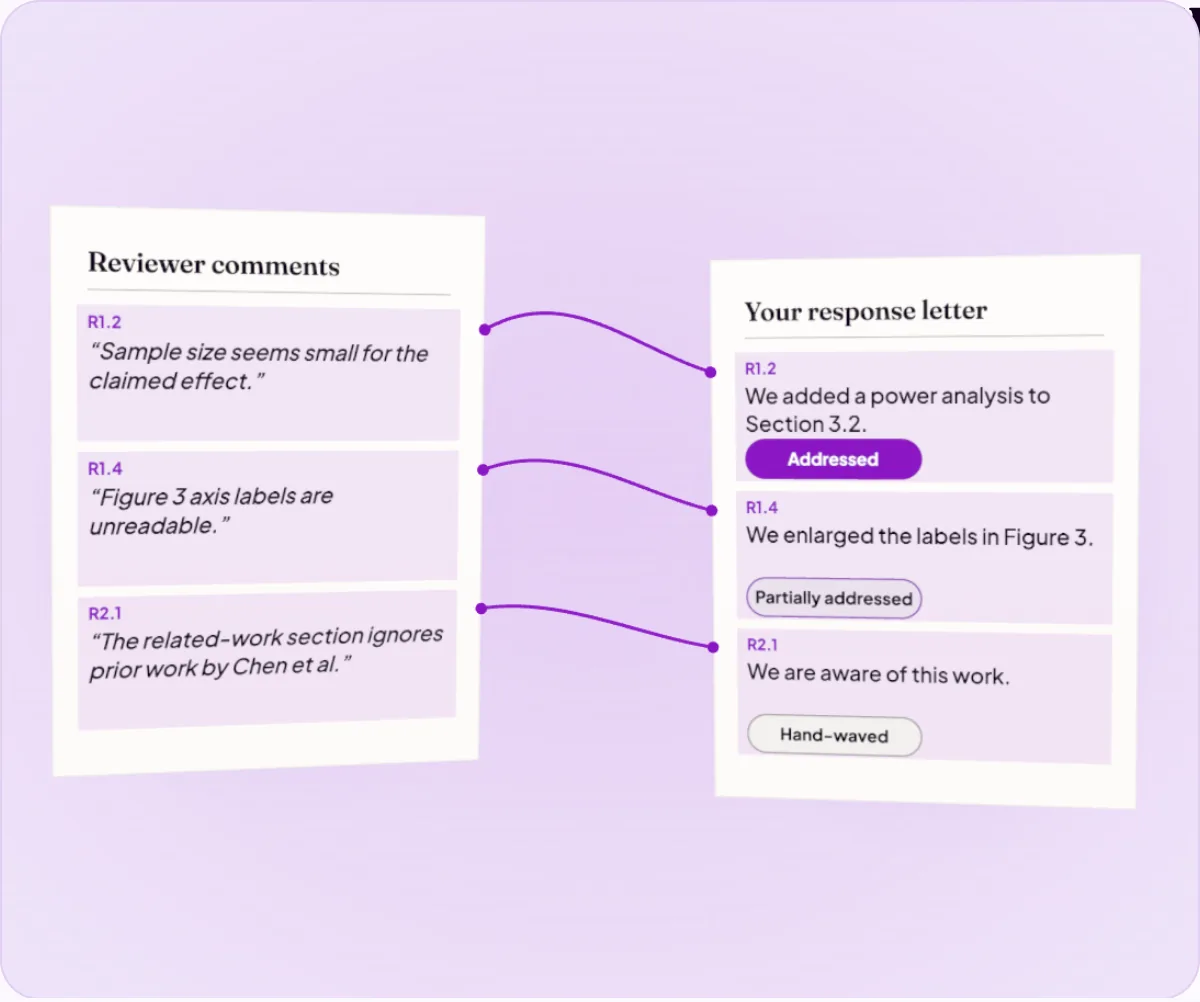
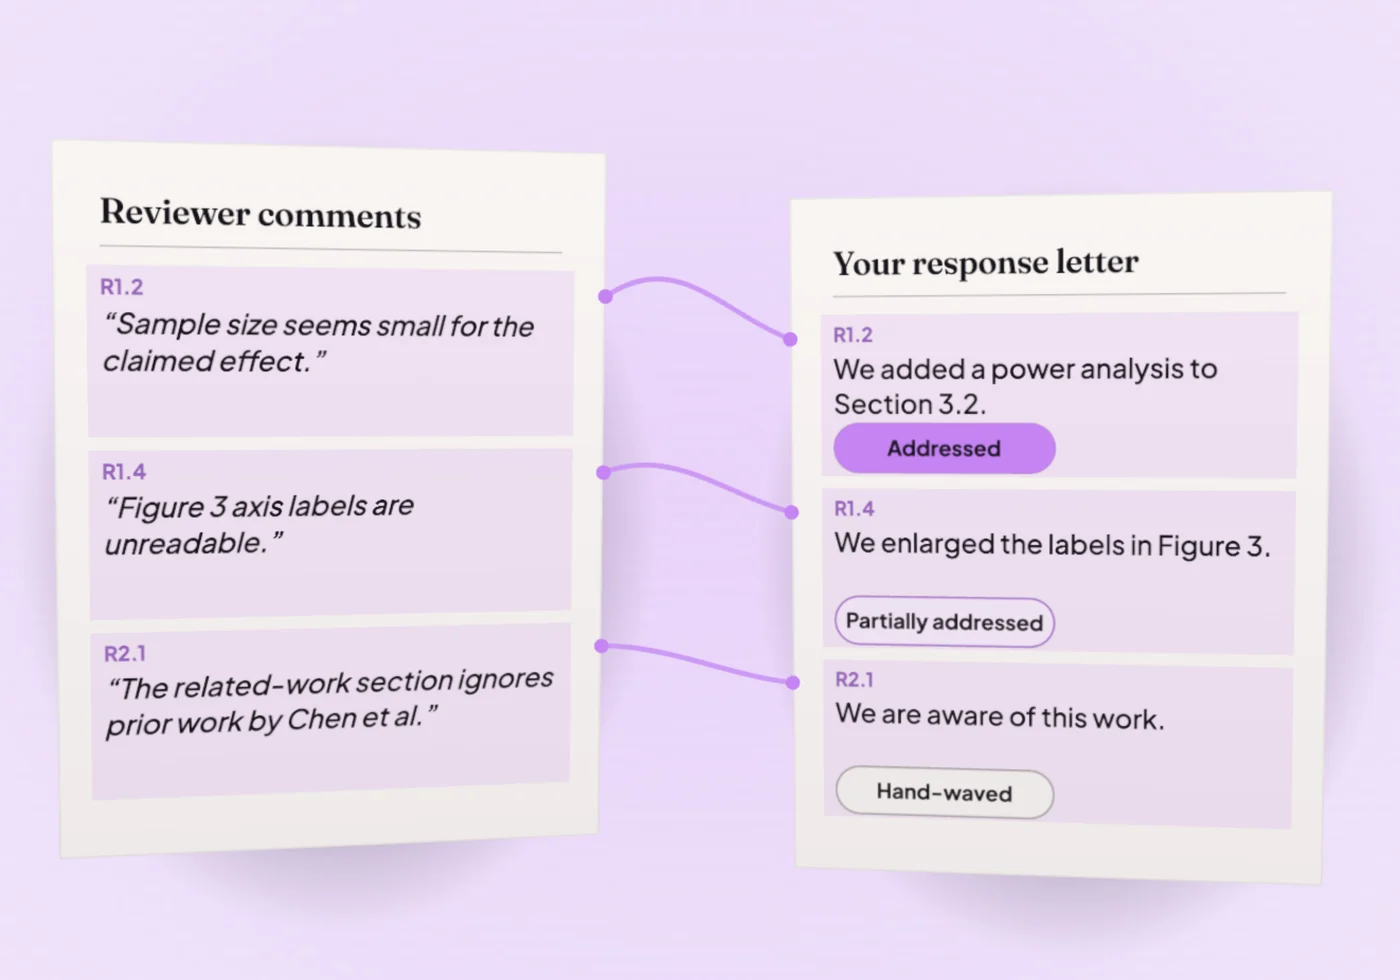
Response Review: larger, brighter tracker render beside the headline, two equal cards, poster on the upload page

diff --git a/site/tools/response-review/response-review.css b/site/tools/response-review/response-review.css
@@ -2,31 +2,38 @@
    Tokens only; dark is the default, light follows the shared tokens. */
 
 /* ---------- landing ---------- */
-.rr-hero { padding-bottom: 0; }
+/* Order in the markup: headline, render, chooser. Phones show the chooser before the render. */
 .rr-stage {
-  display: flex; flex-direction: column; gap: 28px;
-  max-width: 1120px; margin: 28px auto 0; padding: 0 24px;
+  display: flex; flex-direction: column; gap: 24px;
+  max-width: 1240px; margin: 0 auto; padding: 0 24px;
 }
-.rr-chooser { display: flex; flex-direction: column; gap: 16px; min-width: 0; }
-.rr-chooser-title { font-family: var(--font-display); font-size: 1.35rem; margin: 0; text-align: left; }
+.rr-stage > .rr-hero { max-width: 720px; margin: 0 auto; padding: 40px 0 0; }
+.rr-chooser { display: grid; gap: 16px; min-width: 0; }
+.rr-chooser-title { font-family: var(--font-display); font-size: 1.5rem; line-height: 1.2; margin: 0; text-align: left; }
 .rr-card {
-  display: flex; flex-direction: column; gap: 12px;
-  padding: 22px 22px 24px; border: 1px solid var(--line); border-radius: 16px;
+  display: grid; grid-template-columns: minmax(0, 1fr) auto; grid-template-rows: auto 1fr auto;
+  align-items: baseline; gap: 12px 16px;
+  padding: 22px 24px 24px; border: 1px solid var(--line); border-radius: 16px;
   background: var(--panel);
 }
-.rr-card h3 { font-family: var(--font-display); font-size: 1.25rem; line-height: 1.2; margin: 0; }
+.rr-card h3 { font-family: var(--font-display); font-size: 1.3rem; line-height: 1.2; margin: 0; }
 .rr-card-price { margin: 0; font-family: var(--font-display); font-size: 1.9rem; line-height: 1; color: var(--ink); }
-.rr-card-facts { margin: 0; display: grid; gap: 4px; }
-.rr-card-facts dt { font-weight: 700; font-size: 0.95rem; color: var(--ink); margin-top: 6px; text-transform: none; letter-spacing: normal; }
+.rr-card-facts { grid-column: 1 / -1; align-self: start; margin: 0 0 6px; display: grid; grid-template-columns: auto minmax(0, 1fr); gap: 8px 16px; }
+.rr-card-facts dt { font-weight: 700; font-size: 0.95rem; line-height: 1.55; color: var(--ink); margin: 0; text-transform: none; letter-spacing: normal; white-space: nowrap; }
 .rr-card-facts dd { margin: 0; color: var(--muted); font-size: 0.95rem; line-height: 1.55; }
-.rr-card .btn { align-self: flex-start; margin-top: 6px; }
+/* Both buttons are the same size and sit on the card's bottom edge, whatever the copy length above. */
+.rr-card > .btn {
+  grid-column: 1 / -1; align-self: end; width: 100%; margin: 0; text-align: center;
+  font-size: 1.05rem; line-height: 1.3; padding: 0.85rem 1.2rem;
+}
 .rr-secure { text-align: left; }
 
-.rr-figure { margin: 0; min-width: 0; }
+.rr-figure { margin: 0; min-width: 0; order: 1; }
 .rt-hero {
-  position: relative; width: 100%; aspect-ratio: 6 / 5; overflow: hidden;
+  position: relative; width: 100%; aspect-ratio: 1 / 1; overflow: hidden;
   border-radius: 20px; border: 1px solid var(--line);
   background: color-mix(in oklch, var(--purple) 9%, var(--bg));
+  box-shadow: 0 30px 60px -40px color-mix(in oklch, var(--purple) 70%, transparent);
 }
 .rt-hero-poster, .rt-hero-canvas {
   position: absolute; inset: 0; width: 100%; height: 100%; display: block;
@@ -37,19 +44,30 @@
 .rt-hero.is-live .rt-hero-poster { opacity: 0; }
 .rr-caption { margin: 10px 4px 0; font-size: 0.9rem; color: var(--muted); text-align: center; }
 
-.rr-after { max-width: 880px; margin-top: 36px; padding: 0 24px; }
+.rr-after { max-width: 880px; margin-top: 44px; padding: 0 24px; }
 .rr-flow { width: 100%; text-align: left; }
-.rr-flow h2 { font-family: var(--font-display); font-size: 1.35rem; margin: 0 0 12px; text-align: center; }
+.rr-flow h2 { font-family: var(--font-display); font-size: 1.5rem; margin: 0 0 12px; text-align: left; }
 .rr-flow-grid { display: grid; gap: 22px; }
 .rr-flow-grid h3 { font-size: 1.05rem; margin: 0 0 4px; }
 .rr-flow .pr-steps { flex-direction: column; align-items: flex-start; justify-content: flex-start; gap: 8px; margin: 8px 0 0; padding: 0; }
 
 @media (min-width: 640px) {
   .rr-flow-grid { grid-template-columns: 1fr 1fr; gap: 36px; }
+  .rr-chooser { grid-template-columns: 1fr 1fr; gap: 20px; }
+  .rr-chooser-title, .rr-secure { grid-column: 1 / -1; }
+}
+@media (min-width: 760px) {
+  .rt-hero { aspect-ratio: 10 / 7; }
 }
 @media (min-width: 1000px) {
-  .rr-stage { display: grid; grid-template-columns: minmax(0, 1.12fr) minmax(0, 1fr); gap: 40px; align-items: start; }
-  .rr-figure { order: -1; align-self: center; }
+  .rr-stage {
+    display: grid; grid-template-columns: minmax(0, 5fr) minmax(0, 7fr);
+    column-gap: clamp(32px, 4vw, 56px); row-gap: 28px; align-items: center;
+  }
+  .rr-stage > .rr-hero { max-width: none; margin: 0; padding: 0; text-align: left; }
+  .rr-figure { order: 0; }
+  .rr-caption { text-align: left; }
+  .rr-chooser { grid-column: 1 / -1; }
 }
 
 /* ---------- upload ---------- */
@@ -130,7 +148,7 @@
 
 .rr-poster { display: none; }
 @media (min-width: 1000px) {
-  .rr-up-grid { display: grid; grid-template-columns: minmax(0, 1fr) 340px; gap: 40px; align-items: start; }
+  .rr-up-grid { display: grid; grid-template-columns: minmax(0, 1fr) 380px; gap: 48px; align-items: start; }
   .rr-up-grid > .rr-upload { max-width: none; margin: 0; }
   .rr-poster {
     display: block; position: sticky; top: 24px; margin-top: 24px; padding: 20px;
@@ -140,6 +158,13 @@
   .rr-up-grid:has(#redeem-status.error) .rr-poster { display: none; }
 }
 .rr-poster-title { font-family: var(--font-display); font-size: 1.2rem; margin: 0 0 12px; }
+.rr-poster-art {
+  display: block; width: 100%; height: auto; aspect-ratio: 1 / 1; margin: 0 0 14px;
+  border-radius: 12px; border: 1px solid var(--line);
+}
+.rr-poster-art-light { display: none; }
+:root[data-theme="light"] .rr-poster-art-dark { display: none; }
+:root[data-theme="light"] .rr-poster-art-light { display: block; }
 .rr-poster-sheet {
   padding: 16px; border-radius: 10px; background: var(--panel); border: 1px solid var(--line);
   box-shadow: 0 10px 28px -14px color-mix(in oklch, var(--purple) 55%, transparent);
@@ -161,11 +186,11 @@
 
 /* ---------- small screens ---------- */
 @media (max-width: 759px) {
-  .rr-stage { padding: 0 16px; margin-top: 20px; }
+  .rr-stage { padding: 0 16px; }
+  .rr-stage > .rr-hero { padding-top: 24px; }
   .rr-after { padding: 0 16px; }
   .rr-up-grid { padding: 0 16px; }
   .rr-progress { grid-template-columns: 1fr; padding: 0 16px; gap: 8px; }
-  .rr-card .btn { align-self: stretch; text-align: center; }
   .rr-ready-list li { flex-wrap: wrap; }
 }
 

diff --git a/site/assets/js/response-tracker-hero.js b/site/assets/js/response-tracker-hero.js
@@ -63,8 +63,8 @@ function readPalette() {
   const purpleDim = parseCssColor(v('--purple-dim'), purple);
   const muted = parseCssColor(v('--muted'), [0.3, 0.28, 0.33]);
   const warm = [1, 0.9, 0.76];
-  // Paper is the page's lightest tone nudged warm. Dark theme: a dimmed lit sheet. Light theme: near white.
-  const paper = light ? mix(mix(bg, [1, 1, 1], 0.7), warm, 0.2) : mix(mix(ink, warm, 0.45), bg, 0.1);
+  // Paper is the page's lightest tone nudged warm. Dark theme: a sheet under a desk lamp. Light theme: near white.
+  const paper = light ? mix(mix(bg, [1, 1, 1], 0.7), warm, 0.2) : mix(mix(ink, warm, 0.4), [1, 1, 1], 0.3);
   const text = light ? ink : bg; // text on paper is always the dark end of the ramp
   const sub = mix(text, paper, light ? 0.42 : 0.38); // secondary text on paper, still above 4.5:1
   return { bg, ink, purple, purpleDim, muted, paper, text, sub, light };
@@ -91,7 +91,7 @@ function drawSheet(title, kind, P) {
   const x = c.getContext('2d');
   const g = x.createLinearGradient(0, 0, 0, TH);
   g.addColorStop(0, hex(mix(P.paper, [1, 1, 1], P.light ? 0.15 : 0.06)));
-  g.addColorStop(1, hex(mix(P.paper, P.bg, P.light ? 0.06 : 0.16)));
+  g.addColorStop(1, hex(mix(P.paper, P.bg, P.light ? 0.06 : 0.09)));
   x.fillStyle = g; x.fillRect(0, 0, TW, TH);
   x.strokeStyle = rgba(mix(P.bg, P.ink, 0.4), P.light ? 0.35 : 0.2); x.lineWidth = 3; x.strokeRect(1.5, 1.5, TW - 3, TH - 3);
 
@@ -181,7 +181,7 @@ function buildScene(THREE, renderer) {
   const unitGeo = track(new THREE.PlaneGeometry(1, 1));
   const dotGeo = track(new THREE.CircleGeometry(0.014, 16));
 
-  const glow = new THREE.Mesh(unitGeo, mat(null)); glow.position.set(-0.14, 0, -0.8); glow.scale.set(5.4, 4.4, 1); glow.renderOrder = 0;
+  const glow = new THREE.Mesh(unitGeo, mat(null)); glow.position.set(-0.13, 0, -0.8); glow.scale.set(5.4, 4.4, 1); glow.renderOrder = 0;
   scene.add(glow);
 
   const sheets = ['A', 'B'].map((k, i) => {
@@ -190,7 +190,7 @@ function buildScene(THREE, renderer) {
     const paper = new THREE.Mesh(planeGeo, mat(null)); paper.renderOrder = 2;
     g.add(shadow, paper);
     scene.add(g);
-    return { g, shadow, paper, home: i === 0 ? { x: -0.9, y: 0.05, z: 0.06, ry: 0.28, rz: -0.018 } : { x: 0.62, y: -0.05, z: -0.04, ry: -0.2, rz: 0.014 } };
+    return { g, shadow, paper, home: i === 0 ? { x: -0.8, y: 0.04, z: 0.06, ry: 0.24, rz: -0.016 } : { x: 0.54, y: -0.04, z: -0.04, ry: -0.17, rz: 0.012 } };
   });
   sheets[0].g.rotation.x = sheets[1].g.rotation.x = 0.05;
 
@@ -212,10 +212,10 @@ function buildScene(THREE, renderer) {
       sheets.forEach((s) => s.g.updateMatrixWorld(true));
       const a = sheets[0].g.localToWorld(local(1, anchorsA[i]));
       const b = sheets[1].g.localToWorld(local(0, anchorsB[i]));
-      const c1 = a.clone().add(new THREE.Vector3(0.2, 0.1 - i * 0.02, 0.26 + i * 0.04));
-      const c2 = b.clone().add(new THREE.Vector3(-0.2, 0.06, 0.2 + i * 0.03));
+      const c1 = a.clone().add(new THREE.Vector3(0.14, 0.08 - i * 0.02, 0.24 + i * 0.04));
+      const c2 = b.clone().add(new THREE.Vector3(-0.14, 0.05, 0.19 + i * 0.03));
       const curve = new THREE.CubicBezierCurve3(a, c1, c2, b);
-      const geo = new THREE.TubeGeometry(curve, 48, 0.0042, 5, false);
+      const geo = new THREE.TubeGeometry(curve, 48, 0.005, 5, false);
       const mesh = new THREE.Mesh(geo, threadMat); mesh.renderOrder = 5; mesh.frustumCulled = false;
       const dotA = new THREE.Mesh(dotGeo, dotMat); dotA.position.copy(a); dotA.renderOrder = 6;
       const dotB = new THREE.Mesh(dotGeo, dotMat); dotB.position.copy(b); dotB.renderOrder = 6;
@@ -272,14 +272,17 @@ function buildScene(THREE, renderer) {
       chips[i].material.opacity = c;
       chips[i].scale.setScalar(0.92 + 0.08 * c);
     });
-    // camera: fit width and height, small pointer parallax
+    // camera: fit width and height, small pointer parallax. A panel that is not wider than tall (phones)
+    // gets a close-up of the response letter, with the threads coming in from the comment sheet.
     const asp = cam.aspect;
-    const fitW = 2.8, fitH = 2.0;
+    const close = asp < 1.05;
+    const cx = close ? 0.36 : -0.13;
+    const fitW = close ? 1.66 : 2.62, fitH = close ? 1.58 : 1.7;
     const tn = Math.tan((camera.fov * Math.PI) / 360);
     const D = Math.max((fitW / 2) / (tn * asp), (fitH / 2) / tn);
     camera.aspect = asp;
-    camera.position.set(-0.14 + cam.px * 0.09, 0.3 + cam.py * -0.05, D);
-    camera.lookAt(-0.14, 0.03, 0);
+    camera.position.set(cx + cam.px * 0.09, 0.3 + cam.py * -0.05, D);
+    camera.lookAt(cx, 0.06, 0);
     camera.updateProjectionMatrix();
   }
 
@@ -347,12 +350,14 @@ function eligible(mqls) {
 }
 
 function swapPoster(el) {
-  const img = el.querySelector('.rt-hero-poster');
-  if (!img) return;
   const light = document.documentElement.getAttribute('data-theme') === 'light';
-  const src = img.getAttribute('src') || '';
-  const want = light ? src.replace(/(-light)?\.webp$/, '-light.webp') : src.replace(/-light\.webp$/, '.webp');
-  if (want !== src) img.setAttribute('src', want);
+  const themed = (u) => (light ? u.replace(/(-light)?\.webp$/, '-light.webp') : u.replace(/-light\.webp$/, '.webp'));
+  el.querySelectorAll('.rt-hero-poster, source').forEach((n) => {
+    const attr = n.tagName === 'SOURCE' ? 'srcset' : 'src';
+    const cur = n.getAttribute(attr) || '';
+    const want = themed(cur);
+    if (want !== cur) n.setAttribute(attr, want);
+  });
 }
 
 function controller(el) {

diff --git a/site/tools/response-review/index.html b/site/tools/response-review/index.html
@@ -76,12 +76,21 @@
     </nav></header>
     <main id="main-content">
       <a class="back-link" href="/tools/">← All tools</a>
-      <div class="tools-hero rr-hero">
-        <p class="tools-kicker">$12 one-time · results in minutes</p>
-        <h1>Response to Reviewers</h1>
-        <p>This tool red-teams your reply letter (an adversarial read that looks for weak points) before you send it. A three-persona AI panel (Skeptical Reviewer, Tone Editor and Editor-in-Chief) reads your reviewer comments, your draft response and the revised manuscript. The output has four parts: per-comment verdicts, tone concerns, missing responses and a final accept-or-revise estimate.</p>
-      </div>
       <div class="rr-stage">
+        <div class="tools-hero rr-hero">
+          <p class="tools-kicker">$12 to check a letter · $24 to draft and check one</p>
+          <h1>Response to Reviewers</h1>
+          <p>This tool red-teams your reply letter (an adversarial read that looks for weak points) before you send it. A three-persona AI panel (Skeptical Reviewer, Tone Editor and Editor-in-Chief) reads your reviewer comments, your draft response and the revised manuscript. The output has four parts: per-comment verdicts, tone concerns, missing responses and a final accept-or-revise estimate.</p>
+        </div>
+        <figure class="rr-figure">
+          <div class="rt-hero" data-rt-hero>
+            <picture>
+              <source media="(max-width: 759px)" srcset="/tools/response-review/img/tracker-poster-close.webp" width="900" height="900">
+              <img class="rt-hero-poster" src="/tools/response-review/img/tracker-poster.webp" width="1400" height="980" fetchpriority="high" decoding="async" alt="Two paper sheets side by side. The left one lists reviewer comments R1.2, R1.4 and R2.1. The right one holds your replies. Purple threads join each comment to its reply, and each reply carries a verdict: Addressed, Partially addressed or Hand-waved.">
+            </picture>
+          </div>
+          <figcaption class="rr-caption">Every comment is paired with your reply and given a verdict.</figcaption>
+        </figure>
         <div class="rr-chooser" id="choose">
           <h2 class="rr-chooser-title">Which do you need?</h2>
           <article class="rr-card" aria-labelledby="rr-check-title">
@@ -108,12 +117,6 @@
           </article>
           <p class="pr-checkout-meta rr-secure">Secure checkout via Stripe.</p>
         </div>
-        <figure class="rr-figure">
-          <div class="rt-hero" data-rt-hero>
-            <img class="rt-hero-poster" src="/tools/response-review/img/tracker-poster.webp" width="1200" height="1002" fetchpriority="high" decoding="async" alt="Two paper sheets side by side. The left one lists reviewer comments R1.2, R1.4 and R2.1. The right one holds your replies. Purple threads join each comment to its reply, ending in the verdicts Addressed, Partially addressed and Hand-waved.">
-          </div>
-          <figcaption class="rr-caption">Every comment is paired with your reply and given a verdict.</figcaption>
-        </figure>
       </div>
       <div class="pr-checkout-row rr-after">
         <section class="rr-flow" aria-labelledby="rr-flow-title">

diff --git a/site/tools/response-review/draft/upload/index.html b/site/tools/response-review/draft/upload/index.html
@@ -91,6 +91,8 @@
       </div>
       <aside class="rr-poster" aria-labelledby="rr-poster-title">
         <h2 id="rr-poster-title" class="rr-poster-title">What you will get</h2>
+        <img class="rr-poster-art rr-poster-art-dark" src="/tools/response-review/img/tracker-poster-close.webp" width="900" height="900" loading="lazy" decoding="async" alt="Your response letter as a paper sheet. Purple threads arrive from the reviewer comments, and each reply carries a verdict.">
+        <img class="rr-poster-art rr-poster-art-light" src="/tools/response-review/img/tracker-poster-close-light.webp" width="900" height="900" loading="lazy" decoding="async" alt="Your response letter as a paper sheet. Purple threads arrive from the reviewer comments, and each reply carries a verdict.">
         <div class="rr-poster-sheet">
           <p class="rr-poster-head">Draft reply letter, with a review of it</p>
           <ul class="rr-poster-rows">
